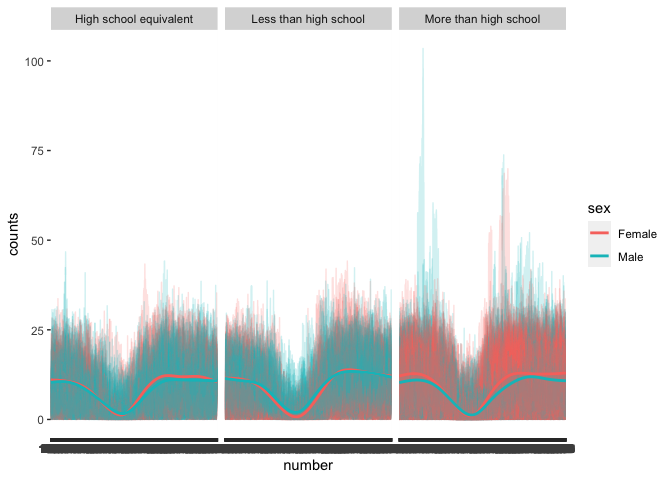
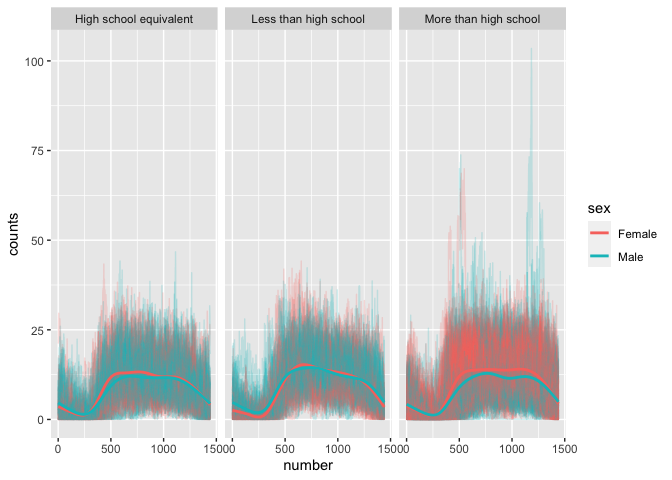
revise the problem 3 and add some comment

diff --git a/P8105_hw3_jl6648.md b/P8105_hw3_jl6648.md
@@ -386,6 +386,7 @@ increases.
 # plot a graph to show the relationship between 24-hour activity time courses for each participants. group people by sex and education level as well. use lab to lable the graph
 
 combine_df |>
+  mutate(number = as.numeric(number)) |>
 ggplot(aes(x = number, y = counts, group = seqn, color = sex)) +
   geom_line(alpha = .2) +
   facet_grid(. ~ education) +
@@ -415,6 +416,8 @@ ggplot(aes(x = number, y = counts, group = seqn, color = sex)) +
     ## [1] "labels"
 
 No matter gender and education level, the pattern of 24 hour activity is
-similar. at high school equivalent and less than high school education
-level, 24 hour activity of male is higher than female; at more than high
-school education level, 24 hour activity of female is higher than male.
+similar, people have low activity during the midnight and high activity
+during the day. at high school equivalent and less than high school
+education level, 24 hour activity of male is higher than female; at more
+than high school education level, 24 hour activity of female is higher
+than male.
